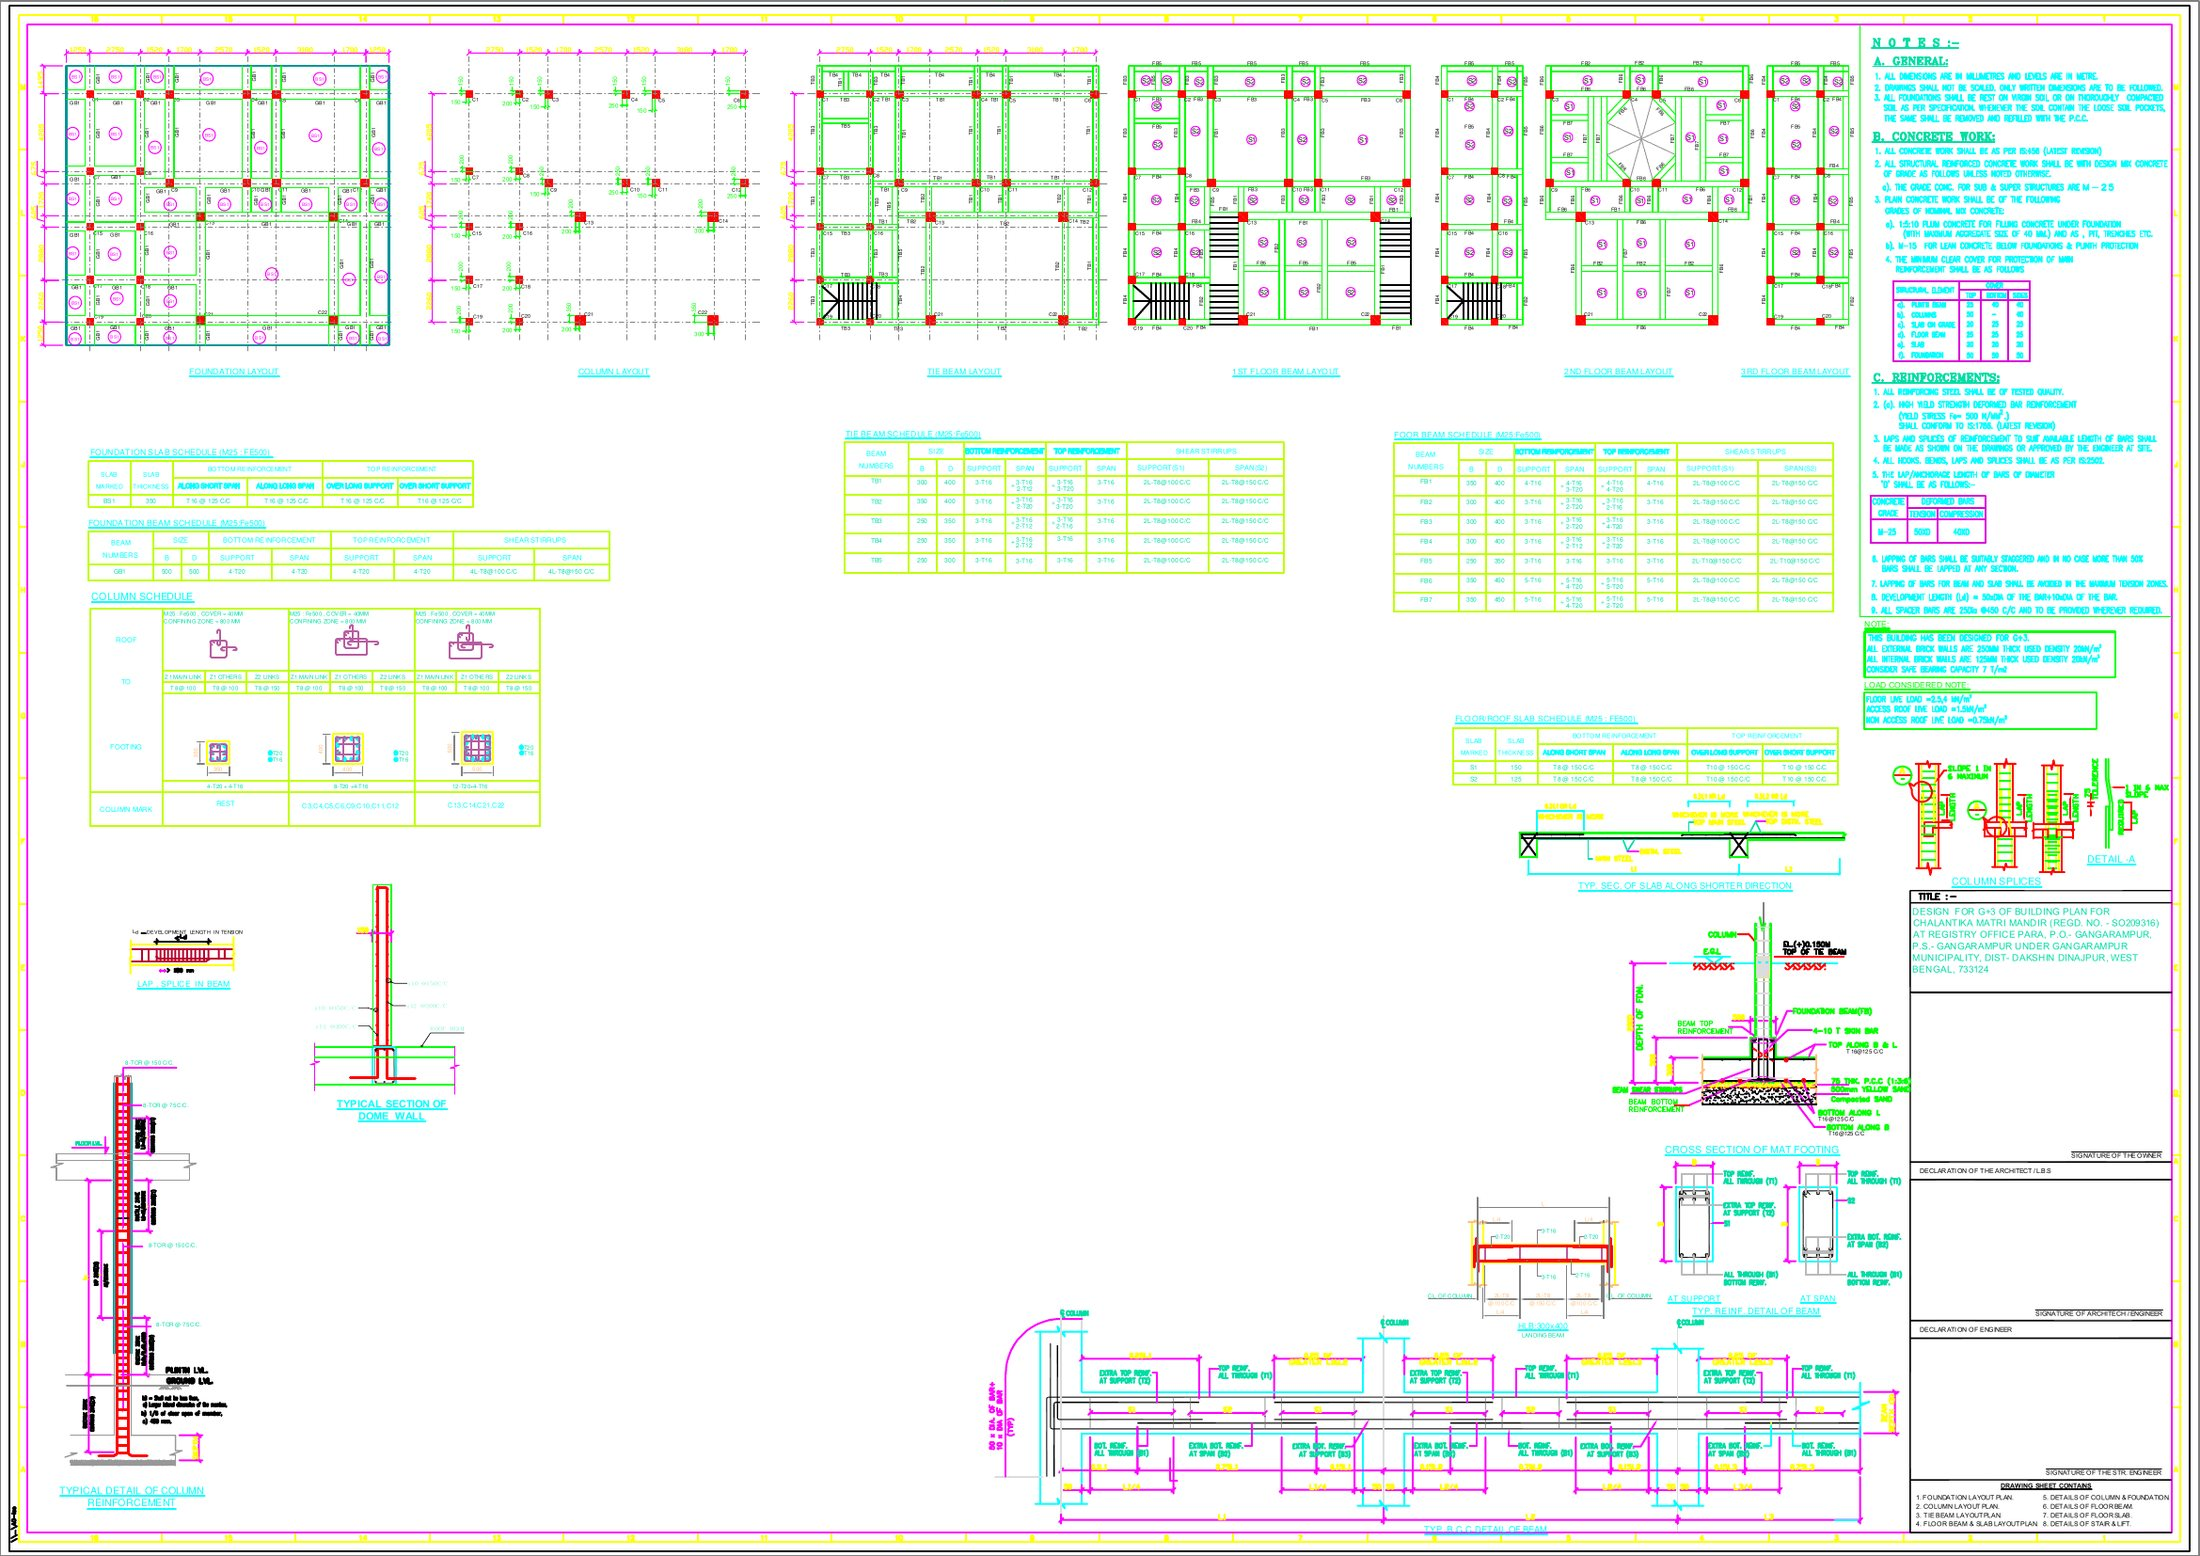
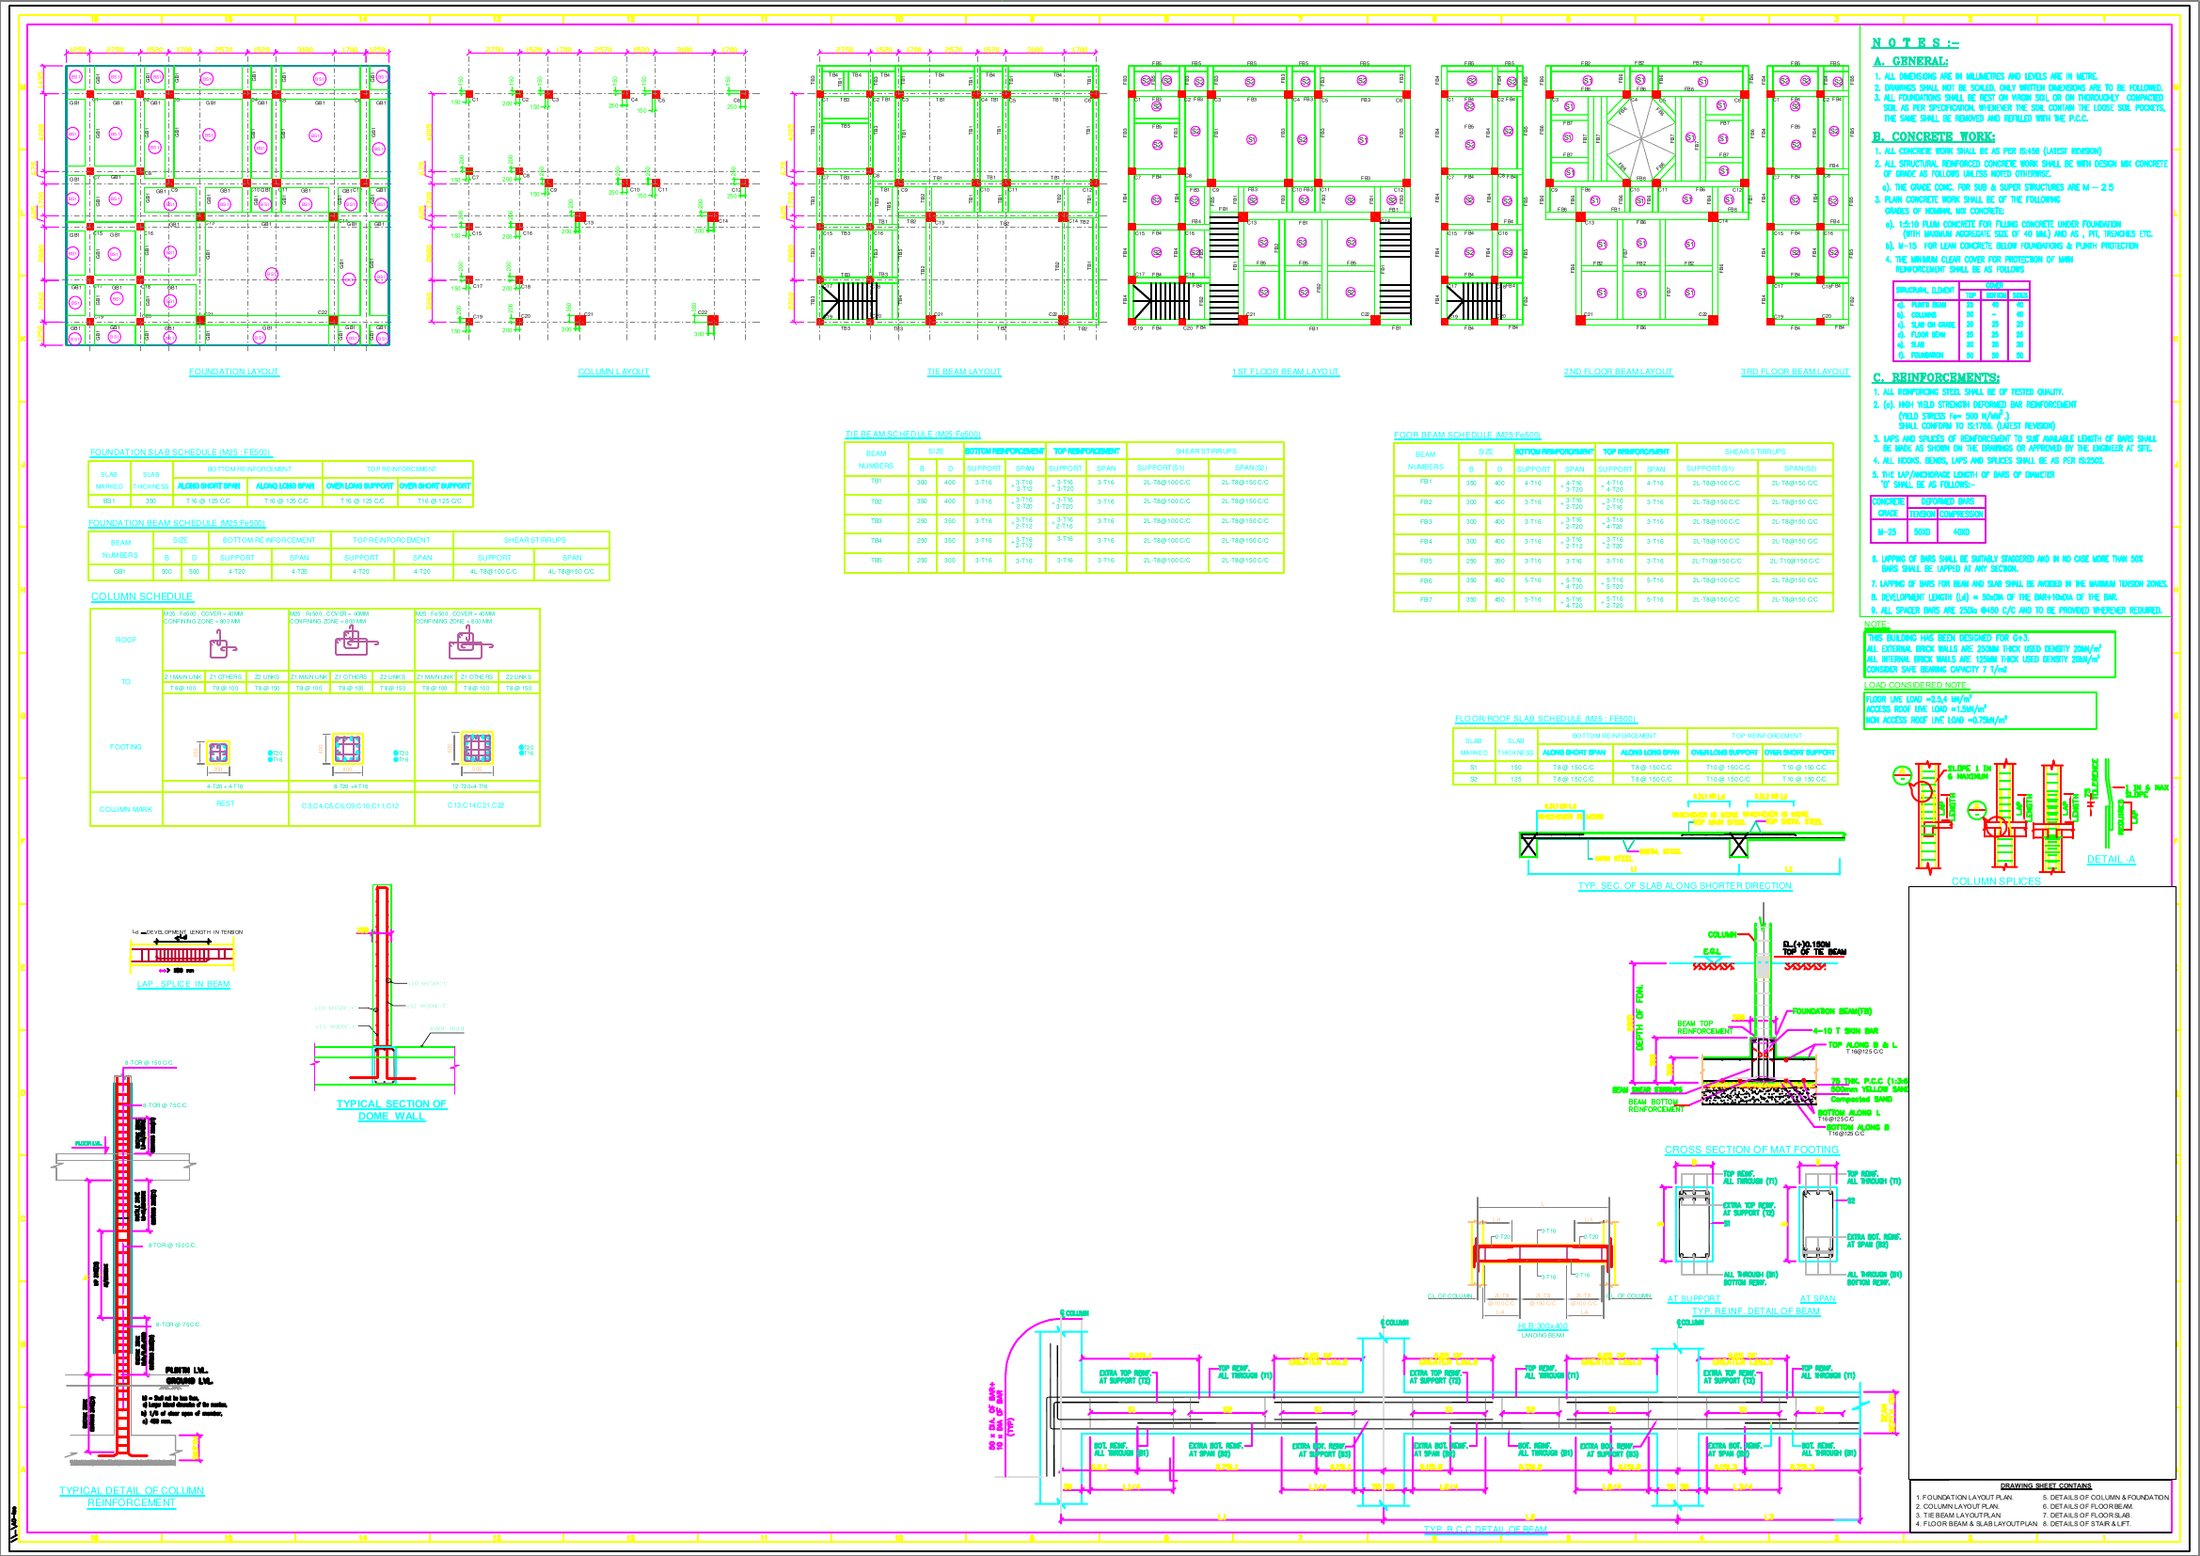
Chalantika Temple: under construction; guest rooms for visiting devotees and sadhus; remove registration and signature details from structural sheet
Claude-Session: https://claude.ai/code/session_01Esnxuys2BbVrFgq67modbx

diff --git a/projects/chalantika-temple-gangarampur.md b/projects/chalantika-temple-gangarampur.md
@@ -1,16 +1,16 @@
 ---
 title: Chalantika Temple
 subtitle: Community Temple – Architecture, Planning & Structural Design
-description: 'A twin-sanctum community temple on High Road, Gangarampur, for the Chalantika Mandir Committee: a
-  raised white temple with a cluster of five ribbed shikharas, pietra dura floral inlay on its pillars and walls,
-  twin approach staircases and a three-storey service tower, on a 50'' × 50'' footprint.'
+description: A twin-sanctum community temple on High Road, Gangarampur, for the Chalantika Mandir Committee, with
+  guest rooms for devotees, sadhus and gurus who travel for the puja from across West Bengal and India. It features
+  five ribbed shikharas, pietra dura floral inlay and twin approach staircases on a 50' × 50' footprint.
 thumbnail: /images/uploads/chalantika-temple-gangarampur-front-elevation-twin-stairs-pietra-dura-web.jpg
 hero_image: /images/uploads/chalantika-temple-gangarampur-front-elevation-twin-stairs-pietra-dura-hero.jpg
 order: 8
 category: Religious Architecture
 location: High Road, Gangarampur, West Bengal
 area: Approx. 2,500 sq.ft. footprint (50' × 50')
-year: ''
+year: Under Construction
 style: Contemporary Traditional Temple
 client: Chalantika Mandir Committee
 about_image: /images/uploads/chalantika-temple-gangarampur-three-quarter-view-shikhara-tower.jpg
@@ -35,11 +35,12 @@ features:
     the white temple warmth and fine detail when seen up close.'
   image: /images/uploads/chalantika-temple-gangarampur-three-quarter-view-shikhara-tower.jpg
   alt: Three-quarter view of Chalantika Temple showing pietra dura floral inlay on pillars and walls
-- title: Planned for Worship & Gatherings
+- title: Planned for Worship, Gatherings & Pilgrims
   text: The temple floor holds two sanctums of about 4.3 × 4.9 m and 4.9 × 4.9 m, separated and surrounded by 1.2
     m (4 ft) wide corridors that allow devotees to move around them. In front, a congregation and sitting area of
-    about 7.5 × 6.0 m opens onto the verandah. Three ancillary rooms, two toilets and a wash area are grouped in
-    the side block, and the sanctums rise double-height into the shikharas above.
+    about 7.5 × 6.0 m opens onto the verandah, and the sanctums rise double-height into the shikharas above. The
+    side block holds guest rooms on each level, with toilets and a wash area, to host devotees, sadhus and gurus
+    who travel for the puja from across West Bengal and other parts of India.
   image: /images/uploads/chalantika-temple-gangarampur-ground-first-floor-plans.jpg
   alt: Ground and first floor plans of Chalantika Temple showing two sanctums, corridors, sitting area and ancillary
     rooms
@@ -54,12 +55,12 @@ highlights:
   text: A tall central shikhara with four subsidiary shikharas and gilded kalash finials.
 - title: Twin Sanctums
   text: Two sanctums with 4 ft corridors around and between them.
+- title: Guest Rooms for Pilgrims
+  text: Rooms for devotees, sadhus and gurus visiting during the puja.
 - title: Raised Podium
   text: Temple floor about 2.5 m above the road, reached by twin staircases.
 - title: Pietra Dura Inlay
   text: Floral inlay on white pillars and walls around the sanctums.
-- title: Congregation Space
-  text: A sitting area of about 7.5 × 6.0 m in front of the sanctums.
 - title: Full Structural Design
   text: RCC foundation, column, beam and slab layouts with details.
 gallery:
@@ -80,6 +81,6 @@ seo:
   meta_description: 'Chalantika Temple, Gangarampur: a twin-sanctum community temple with five shikharas, pietra
     dura inlay and full structural design by ADS Creative Space.'
 ---
-Designed for the Chalantika Mandir Committee on High Road, Gangarampur, this community temple brings two sanctums, a congregation space and supporting facilities together on a compact 50' × 50' site. ADS Creative Space prepared the architecture, planning and complete structural design.
+Designed for the Chalantika Mandir Committee on High Road, Gangarampur, this community temple brings two sanctums, a congregation space and guest accommodation together on a compact 50' × 50' site. ADS Creative Space prepared the architecture, planning and complete structural design, and the temple is now under construction.
 
-The temple is raised on a podium about 2.5 m above the road and reached by twin staircases, so the sanctum sits above street level and festival crowds can move freely. Above, a cluster of five ribbed shikharas with gilded kalash finials gives the temple a strong presence on the street, while white marble-finish surfaces with pietra dura floral inlay bring fine detail to the pillars and walls. A three-storey side block houses ancillary rooms, toilets and a wash area.
+During the puja, devotees, sadhus and gurus travel here from across West Bengal and other parts of India, so the side block was planned as guest rooms with toilets and a wash area, letting visitors stay on site. The temple itself is raised on a podium about 2.5 m above the road and reached by twin staircases, and a cluster of five ribbed shikharas with gilded kalash finials and pietra dura floral inlay gives it a strong presence on High Road.
